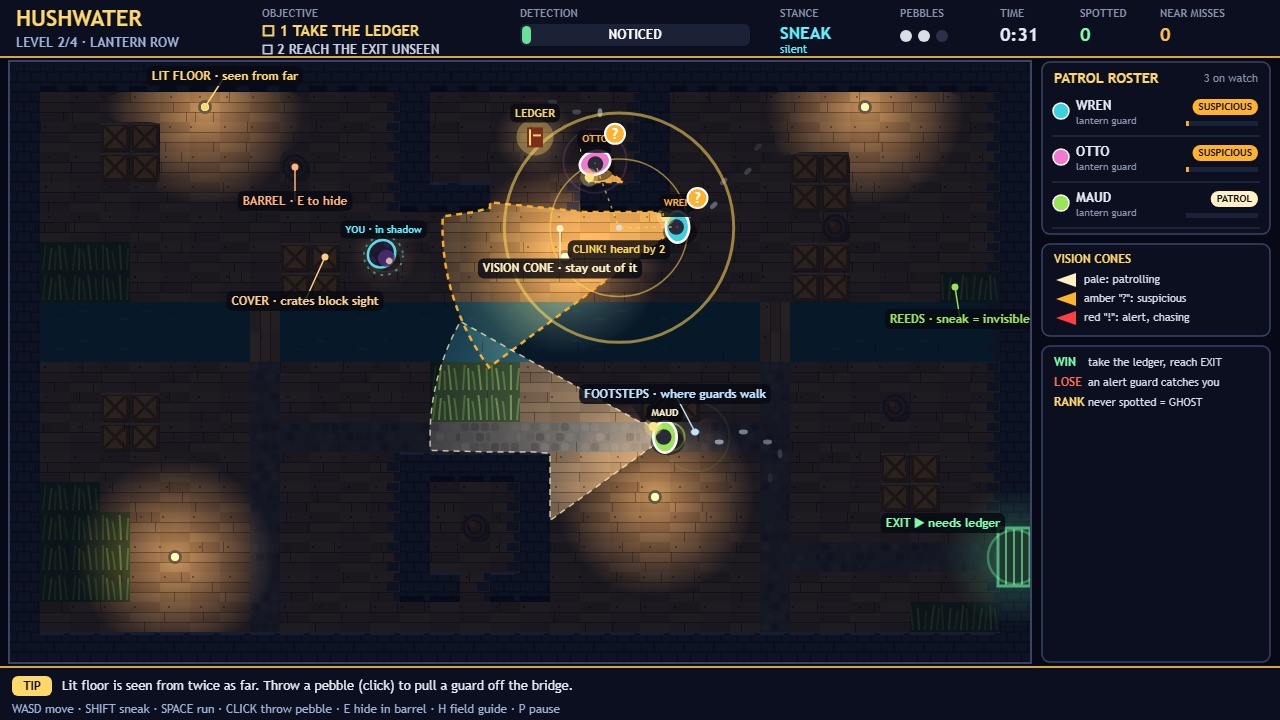
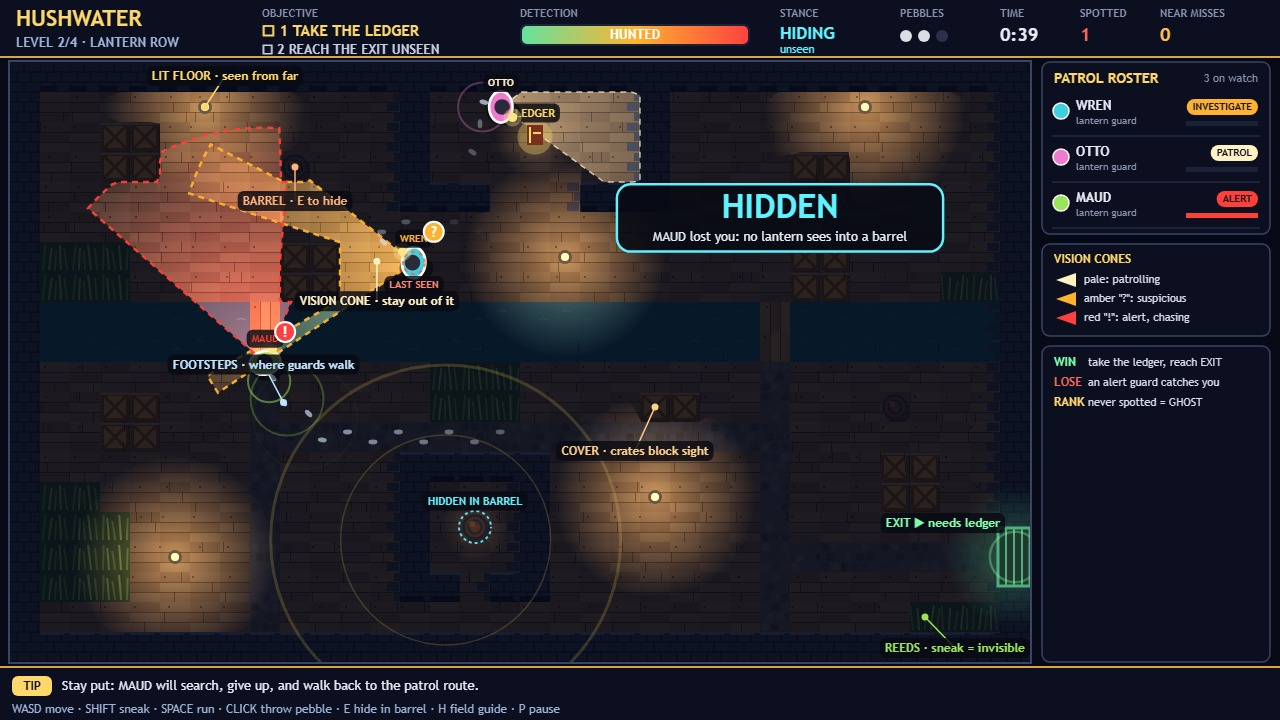
v2: alarm-and-hide cover, HIDDEN popup, context tips, inbox for between-step actions

diff --git a/game/src/render/hud.js b/game/src/render/hud.js
@@ -164,6 +164,18 @@ export function drawRoster(ctx, world) {
   }
 }
 
+/** The tip for this moment of play: what to do about the guard that matters most right now. */
+export function contextTip(world) {
+  const p = world.player;
+  const hunter = world.guards.find((g) => g.state === 'ALERT' || g.state === 'SEARCH');
+  const watcher = world.guards.find((g) => g.seesPlayer && g.state !== 'ALERT');
+  if (p.hiddenIn && hunter) return `Stay put: ${hunter.name} will search, give up, and walk back to the patrol route.`;
+  if (hunter && hunter.seesPlayer) return `${hunter.name} sees you! Break line of sight: round a wall, into reeds, or a barrel (E).`;
+  if (watcher) return `${watcher.name} is noticing you: back into the dark before the meter fills!`;
+  if (p.hasLedger) return 'Ledger taken: the EXIT gate is open. Stay in the shadows on the way out.';
+  return world.def.tip;
+}
+
 export function drawRibbon(ctx, world, tip) {
   const y = MAP_ORIGIN.y + 600 + 6;
   ctx.fillStyle = '#0b0f1f';
@@ -175,7 +187,7 @@ export function drawRibbon(ctx, world, tip) {
   ctx.roundRect(12, y + 8, 40, 20, 6);
   ctx.fill();
   text(ctx, 'TIP', 32, y + 18.5, 12, '#10131f', 'center');
-  text(ctx, tip ?? world.def.tip, 62, y + 18.5, 13, '#e8ecf6', 'left', 'normal');
+  text(ctx, tip ?? contextTip(world), 62, y + 18.5, 13, '#e8ecf6', 'left', 'normal');
   text(ctx, 'WASD move · SHIFT sneak · SPACE run · CLICK throw pebble · E hide in barrel · H field guide · P pause', 12, y + 42, 12, '#9fb3d9', 'left', 'normal');
 }
 
@@ -184,7 +196,7 @@ export function drawPopups(ctx, world) {
     const t = p.age / p.life;
     const alpha = t < 0.85 ? 1 : (1 - t) / 0.15;
     const scale = t < 0.08 ? 0.7 + (t / 0.08) * 0.3 : 1;
-    const cx = MAP_ORIGIN.x + 510;
+    const cx = MAP_ORIGIN.x + 770;
     const cy = MAP_ORIGIN.y + 70 + i * 82;
     ctx.save();
     ctx.globalAlpha = alpha;

diff --git a/game/src/shots.js b/game/src/shots.js
@@ -8,6 +8,8 @@ import { createWorld, stepWorld, rankOf } from './world.js';
 import { findPath } from './ai/pathfinding.js';
 import { throwPebble } from './actors/player.js';
 import { recordRank } from './systems/progress.js';
+import { toggleHide } from './systems/hiding.js';
+import { ALERT } from './ai/guard-states.js';
 import { SCREEN_PLAY, SCREEN_RESULTS, SCREEN_TITLE } from './game-flow.js';
 
 const IDLE = { dx: 0, dy: 0, sneak: true, run: false };
@@ -52,12 +54,17 @@ export function stageShot(name, game) {
     return;
   }
   if (name === 'cover') {
-    // LANTERN ROW: the thief waits in the dark behind the crates, then throws a pebble past the
-    // lamp; two guards turn amber and go to check the clatter while the third keeps patrolling.
+    // LANTERN ROW: MAUD spots the thief on the cobbles and raises the alarm. The thief throws a
+    // pebble over the canal, runs and climbs into a barrel: MAUD (red, alert) chases the clatter,
+    // WREN (amber, suspicious) goes to look at it, OTTO (pale) keeps his patrol.
     const world = createWorld(1);
-    wait(world, 21);
-    walkTo(world, 12, 6);
-    throwAt(world, 20, 5, 1.0);
+    wait(world, 12);
+    walkTo(world, 12, 12, 'walk');
+    for (let t = 0; t < 22 && !world.guards.some((g) => g.state === ALERT); t += STEP) stepWorld(world, IDLE, STEP);
+    throwPebble(world, 13 * TILE + TILE / 2, 6 * TILE + TILE / 2);
+    walkTo(world, 14, 14, 'run');
+    toggleHide(world);
+    wait(world, 0.2);
     game.world = world;
     game.screen = SCREEN_PLAY;
     game.guide = true;

diff --git a/game/src/world.js b/game/src/world.js
@@ -25,6 +25,7 @@ export function createWorld(levelIndex) {
     pebbles: [],
     popups: [],
     events: [],
+    inbox: [],
     heard: [],
     stats: { time: 0, spotted: 0, nearMisses: 0, pebbles: 0 },
     outcome: null,
@@ -56,6 +57,11 @@ function handleEvents(world) {
         world.stats.nearMisses += 1;
         popup(world, 'NEAR MISS', `${event.guard.name} lost interest`, '#ffc04d');
         break;
+      case 'hide': {
+        const hunter = world.guards.find((g) => g.state === 'ALERT' || g.state === 'SEARCH');
+        popup(world, 'HIDDEN', hunter ? `${hunter.name} lost you: no lantern sees into a barrel` : 'no lantern sees into a barrel', '#5ff2ff');
+        break;
+      }
       case 'ledger':
         popup(world, 'LEDGER TAKEN', 'the EXIT gate is open: get out unseen', '#ffd86b');
         break;
@@ -73,7 +79,9 @@ function handleEvents(world) {
 
 /** Advance the level by dt seconds; intent = { dx, dy, sneak, run }. Returns this step's events. */
 export function stepWorld(world, intent, dt) {
-  world.events = [];
+  // Actions taken between steps (hiding, throwing) wait in the inbox and are handled with this step.
+  world.events = world.inbox;
+  world.inbox = [];
   if (world.outcome) return world.events;
   world.clock += dt;
   world.stats.time += dt;

diff --git a/game/src/systems/hiding.js b/game/src/systems/hiding.js
@@ -7,7 +7,7 @@ import { TILE } from '../config.js';
 export function barrelInReach(world) {
   const player = world.player;
   let best = null;
-  let bestDist = 40;
+  let bestDist = 46;
   for (const barrel of world.map.barrels) {
     const d = Math.hypot(barrel.x - player.x, barrel.y - player.y);
     if (d < bestDist) {
@@ -25,7 +25,7 @@ export function toggleHide(world) {
     player.y = player.outY;
     player.hiddenIn = null;
     player.seenHiding = false;
-    world.events.push({ type: 'unhide' });
+    world.inbox.push({ type: 'unhide' });
     return;
   }
   const barrel = barrelInReach(world);
@@ -37,5 +37,5 @@ export function toggleHide(world) {
   player.hiddenIn = barrel;
   player.x = barrel.x;
   player.y = barrel.y;
-  world.events.push({ type: 'hide' });
+  world.inbox.push({ type: 'hide' });
 }

diff --git a/game/src/actors/player.js b/game/src/actors/player.js
@@ -94,6 +94,6 @@ export function throwPebble(world, tx, ty) {
     fromX: player.x, fromY: player.y, toX: player.x + (dx / dist) * land, toY: player.y + (dy / dist) * land, t: 0, flight: 0.25 + land / 900,
   });
   world.stats.pebbles += 1;
-  world.events.push({ type: 'throw' });
+  world.inbox.push({ type: 'throw' });
   return true;
 }
